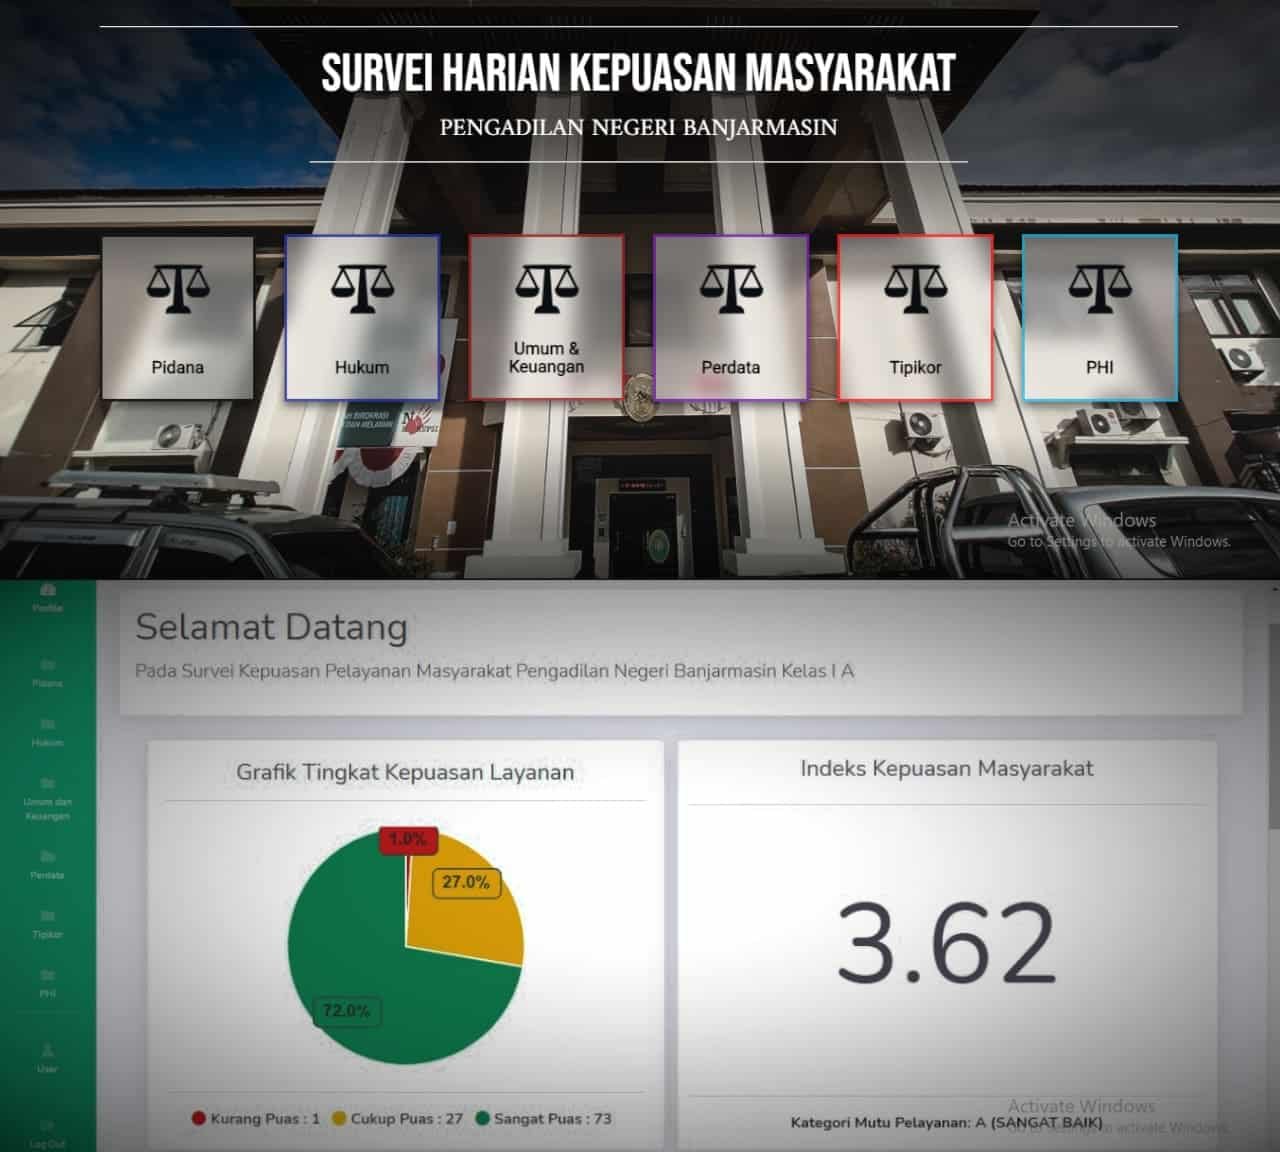
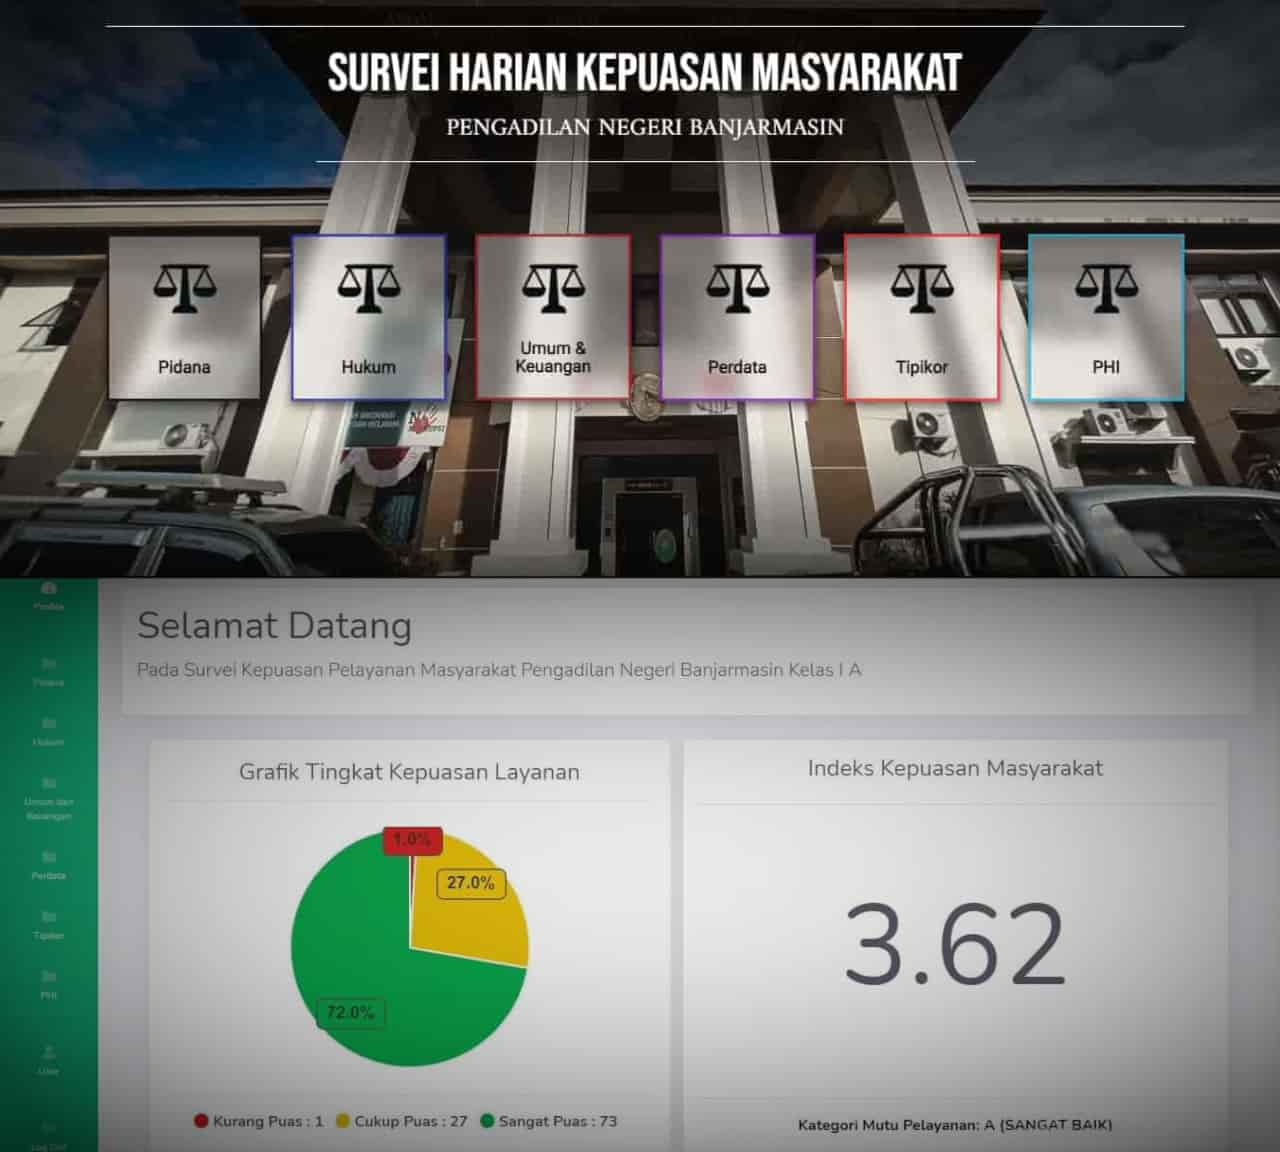
remove windows old watermark on imgs

diff --git a/index.html b/index.html
@@ -276,17 +276,7 @@
                     <span>&nbsp;</span>
                 </div>
             </div>
-            <div class="skill-box no-contrast">
-                <div class="skill-logo-wrapper">
-                    <svg viewBox="0 0 512 407.864" xmlns="http://www.w3.org/2000/svg">
-                        <path d="m106.344 0c-29.214 0-50.831 25.57-49.863 53.3.929 26.641-.278 61.145-8.964 89.283-8.717 28.217-23.449 46.098-47.517 48.393v25.912c24.068 2.3 38.8 20.172 47.516 48.393 8.687 28.138 9.893 62.642 8.964 89.283-.968 27.726 20.649 53.3 49.868 53.3h299.347c29.214 0 50.827-25.57 49.859-53.3-.929-26.641.278-61.145 8.964-89.283 8.717-28.221 23.413-46.1 47.482-48.393v-25.912c-24.068-2.3-38.764-20.172-47.482-48.393-8.687-28.134-9.893-62.642-8.964-89.283.968-27.726-20.645-53.3-49.859-53.3h-299.355zm240.775 251.067c0 38.183-28.481 61.34-75.746 61.34h-80.458a8.678 8.678 0 0 1 -8.678-8.678v-199.593a8.678 8.678 0 0 1 8.678-8.678h80c39.411 0 65.276 21.348 65.276 54.124 0 23.005-17.4 43.6-39.567 47.208v1.2c30.176 3.31 50.495 24.21 50.495 53.077zm-84.519-128.1h-45.876v64.8h38.639c29.87 0 46.34-12.028 46.34-33.527-.003-20.148-14.163-31.273-39.103-31.273zm-45.876 90.511v71.411h47.564c31.1 0 47.573-12.479 47.573-35.931s-16.935-35.484-49.573-35.484h-45.564z" fill="#7952b3" fill-rule="evenodd"/>
-                    </svg>
-                </div>
-                <div class="skill-text-wrapper">
-                    <p>Bootstrap</p>
-                    <span>&nbsp;</span>
-                </div>
-            </div>
+            
             <div class="skill-box no-contrast">
                 <div class="skill-logo-wrapper">
                     <svg fill="none" xmlns="http://www.w3.org/2000/svg" viewBox="27 26 173.23 174.94">
@@ -299,6 +289,17 @@
                 </div>
                 <div class="skill-text-wrapper">
                     <p>Three js</p>
+                    <span>&nbsp;</span>
+                </div>
+            </div>
+            <div class="skill-box no-contrast">
+                <div class="skill-logo-wrapper">
+                    <svg viewBox="0 0 512 407.864" xmlns="http://www.w3.org/2000/svg">
+                        <path d="m106.344 0c-29.214 0-50.831 25.57-49.863 53.3.929 26.641-.278 61.145-8.964 89.283-8.717 28.217-23.449 46.098-47.517 48.393v25.912c24.068 2.3 38.8 20.172 47.516 48.393 8.687 28.138 9.893 62.642 8.964 89.283-.968 27.726 20.649 53.3 49.868 53.3h299.347c29.214 0 50.827-25.57 49.859-53.3-.929-26.641.278-61.145 8.964-89.283 8.717-28.221 23.413-46.1 47.482-48.393v-25.912c-24.068-2.3-38.764-20.172-47.482-48.393-8.687-28.134-9.893-62.642-8.964-89.283.968-27.726-20.645-53.3-49.859-53.3h-299.355zm240.775 251.067c0 38.183-28.481 61.34-75.746 61.34h-80.458a8.678 8.678 0 0 1 -8.678-8.678v-199.593a8.678 8.678 0 0 1 8.678-8.678h80c39.411 0 65.276 21.348 65.276 54.124 0 23.005-17.4 43.6-39.567 47.208v1.2c30.176 3.31 50.495 24.21 50.495 53.077zm-84.519-128.1h-45.876v64.8h38.639c29.87 0 46.34-12.028 46.34-33.527-.003-20.148-14.163-31.273-39.103-31.273zm-45.876 90.511v71.411h47.564c31.1 0 47.573-12.479 47.573-35.931s-16.935-35.484-49.573-35.484h-45.564z" fill="#7952b3" fill-rule="evenodd"/>
+                    </svg>
+                </div>
+                <div class="skill-text-wrapper">
+                    <p>Bootstrap</p>
                     <span>&nbsp;</span>
                 </div>
             </div>

diff --git a/script.js b/script.js
@@ -355,12 +355,12 @@ const works = [
             name : "Stylish Wear",
             subName : "Dummy Project",
             description : "stylish wear is a dummy website showing few information about clothes.<br>created with :<br>- HTML, CSS, Javascript<br>- GSAP<br>- Swiper.js<br>- Pace.js",
-            mainImg : "img/work/sw/sw2.jpg",
+            mainImg : "img/work/sw/sw2.webp",
             mainImgMobile : "img/work/sw/sw5.jpg",
             link : "https://stylish-wear.netlify.app",
             imgs : [
                 "img/work/sw/sw1.jpg",
-                "img/work/sw/sw2.jpg",
+                "img/work/sw/sw2.webp",
                 "img/work/sw/sw3.jpg",
             ]
         },
